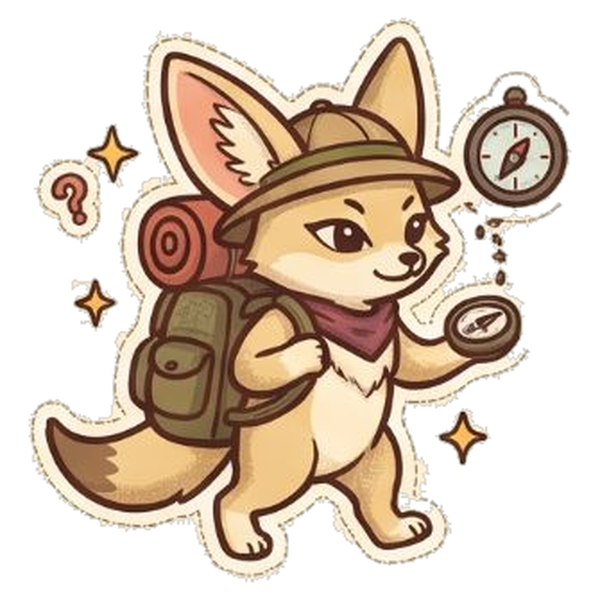
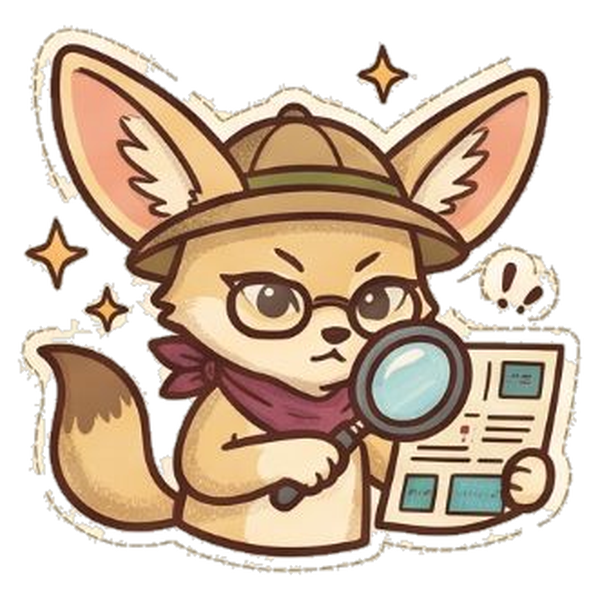
Crew: Lily uses the sharp-eyed detective pose (#216)
At the owner's request: the magnifying-glass pose from the character
sheet instead of the traveller one. Her caption, emoji (🔍) and line
("let me take a closer look") match it, in English and Arabic.

Claude-Session: https://claude.ai/code/session_014fCxsKoNLsMsJh7Vf18598

diff --git a/data/ar/content.js b/data/ar/content.js
@@ -583,7 +583,7 @@ AR.crew={
 "Apollo":{"n": "أبولو", "role": "مرشد", "what": "القط صاحب هذا الدفتر. مشى كل شارع على الخريطة، وأكل في ثلاث مدن، وهو اللي قرر أي الأماكن تستاهل صفحة. كل نصيحة في هذا الموقع بصوته.", "tip": "أنا ما أنصحك إلا بأماكن أرجع لها. ما فيه صفحات حشو هنا.", "cap": "الكاميرا في مخلبي"},
 "Kenbo":{"n": "كينبو", "role": "كشّاف", "what": "نسر انضم لنا في الأيام الطويلة برا المدينة. يمشي المسارات ويركب القطارات اللي القط ما يحبها: رحلات اليوم الواحد، والهايكنج في الجبال، وأي شي يحتاج صحوة بدري وحذاء مريح.", "tip": "إذا المكان أبعد من ساعة عن المدينة، فهو صفحتي. خذ معك ماء.", "cap": "على المسار"},
 "Fa":{"n": "فا", "role": "دعم", "what": "بطة انضمت عشان تهتم بالكل. إذا طال اليوم، أو زحمت القطارات، أو ضربك الجت لاق، فا تجيك بكوب شاي دافي وبطانية وتذكير إنك قدها.", "tip": "خذها بهدوء. اشرب شي دافي. أنت قدها.", "cap": "جاهزة للمساعدة"},
-"Lily":{"n": "ليلي", "role": "حلّالة المشاكل", "what": "فنك عيونها حادة، انضمت عشان تحل الأمور المعقدة. تذكرة ضايعة، تطبيق ما يشتغل، خطة خربت نص اليوم: ليلي تقرأ التفاصيل الصغيرة، وتلقى الحل، وترجّع يومك على الطريق.", "tip": "دايم فيه حل. خلني أشوف الخريطة.", "cap": "البوصلة بيدها"}
+"Lily":{"n": "ليلي", "role": "حلّالة المشاكل", "what": "فنك عيونها حادة، انضمت عشان تحل الأمور المعقدة. تذكرة ضايعة، تطبيق ما يشتغل، خطة خربت نص اليوم: ليلي تقرأ التفاصيل الصغيرة، وتلقى الحل، وترجّع يومك على الطريق.", "tip": "دايم فيه حل. خلني أشوف عن قرب.", "cap": "العدسة المكبّرة بيدها"}
 };
 AR.album={
 "Finally, Japan!":{"t": "أخيرًا، اليابان!", "where": "مطار ناريتا", "caps": ["قربنا…", "وكتبوا أهلاً وسهلاً كمان!", "بيكاتشو جاء يسلّم ⚡"], "note": "بعد رحلة طويلة (وكثير تحديق في الطيارات من الشباك) وصلنا أخيرًا. أول شي استقبلنا لوحة كبيرة مكتوب فيها «مرحبًا بكم في اليابان» بأكثر من عشر لغات، وفي أول سطر: أهلاً وسهلاً. حسّينا إننا في بيتنا من أول لحظة. وبعدها، على طول الممر، بيكاتشو وبولباسور وسكويرتل وأصحابهم يركضون على الجدار ويصرخون ようこそ، أهلًا فيكم! إيش يحتاج قط أحلى من كذا استقبال؟ هنا تبدأ المغامرة."},

diff --git a/data/crew.js b/data/crew.js
@@ -28,5 +28,5 @@ const CREW=[
 {"n":"Apollo","jp":"アポロ","role":"guide","what":"The cat whose notebook this is. He walked every street on the map, ate his way through three cities and decided which places were worth a page. Every tip on this site is in his voice.","tip":"i only recommend places i'd go back to. there are no filler pages in here.","cap":"camera in paw","art":"assets/cat.png","c":"--lantern","e":"📷","stats":["places","cities"],"links":[]},
 {"n":"Kenbo","jp":"ケンボー","role":"scout","what":"An eagle who joined for the long days out. He takes the trails and the trains the cat won't: the day trips, the hikes and anything that needs an early start and a good pair of boots.","tip":"if it's more than an hour out of the city, it's my page. pack water.","cap":"on the trail","art":"assets/crew/kenbo.png","c":"--wasabi","e":"🥾","stats":["trips","stamps"],"links":[]},
 {"n":"Fa","jp":"ファ","role":"support","what":"A duck who joined to look after everyone. When the day gets long, the trains get busy or the jet lag hits, Fa turns up with a warm tea, a blanket and a reminder that you've got this.","tip":"slow down. drink something warm. you've got this.","cap":"ready to help","art":"assets/crew/fa.png","c":"--mochi","e":"🍵","stats":["halal","cities"],"links":[]},
-{"n":"Lily","jp":"リリー","role":"problem solver","what":"A sharp-eyed fennec who joined to sort out the tricky bits. A lost ticket, an app that won't work, a plan that falls apart at noon: Lily reads the small print, finds the fix and gets the day back on track.","tip":"there's always a way. let me check the map.","cap":"compass in paw","art":"assets/crew/lily.png","c":"--shinkansen","e":"🧭","stats":["places","stamps"],"links":[]}
+{"n":"Lily","jp":"リリー","role":"problem solver","what":"A sharp-eyed fennec who joined to sort out the tricky bits. A lost ticket, an app that won't work, a plan that falls apart at noon: Lily reads the small print, finds the fix and gets the day back on track.","tip":"there's always a way. let me take a closer look.","cap":"magnifying glass in paw","art":"assets/crew/lily.png","c":"--shinkansen","e":"🔍","stats":["places","stamps"],"links":[]}
 ];

diff --git a/js/landing.js b/js/landing.js
@@ -33,7 +33,7 @@ const FEATS=[
 const BUDS=[["apollo","assets/cat.png","--lantern","guide","i only recommend places i'd go back to."],
   ["kenbo","assets/crew/kenbo.png","--wasabi","scout","if it's more than an hour out of the city, it's my page. pack water."],
   ["fa","assets/crew/fa.png","--mochi","support","slow down. drink something warm. you've got this."],
-  ["lily","assets/crew/lily.png","--shinkansen","problem solver","there's always a way. let me check the map."]];
+  ["lily","assets/crew/lily.png","--shinkansen","problem solver","there's always a way. let me take a closer look."]];
 const TIPS=["i only recommend places i'd go back to.","Fushimi Inari at 7 in the morning, before the crowds.","the deer in Nara bow first. bow back.","download the city offline before you land."];
 const bud=k=>(typeof BUDDIES!=="undefined"&&BUDDIES.find(b=>b.k===k))||{};
 const crewOf=k=>(typeof CREW!=="undefined"&&CREW.find(c=>c.n.toLowerCase()===k))||{};
